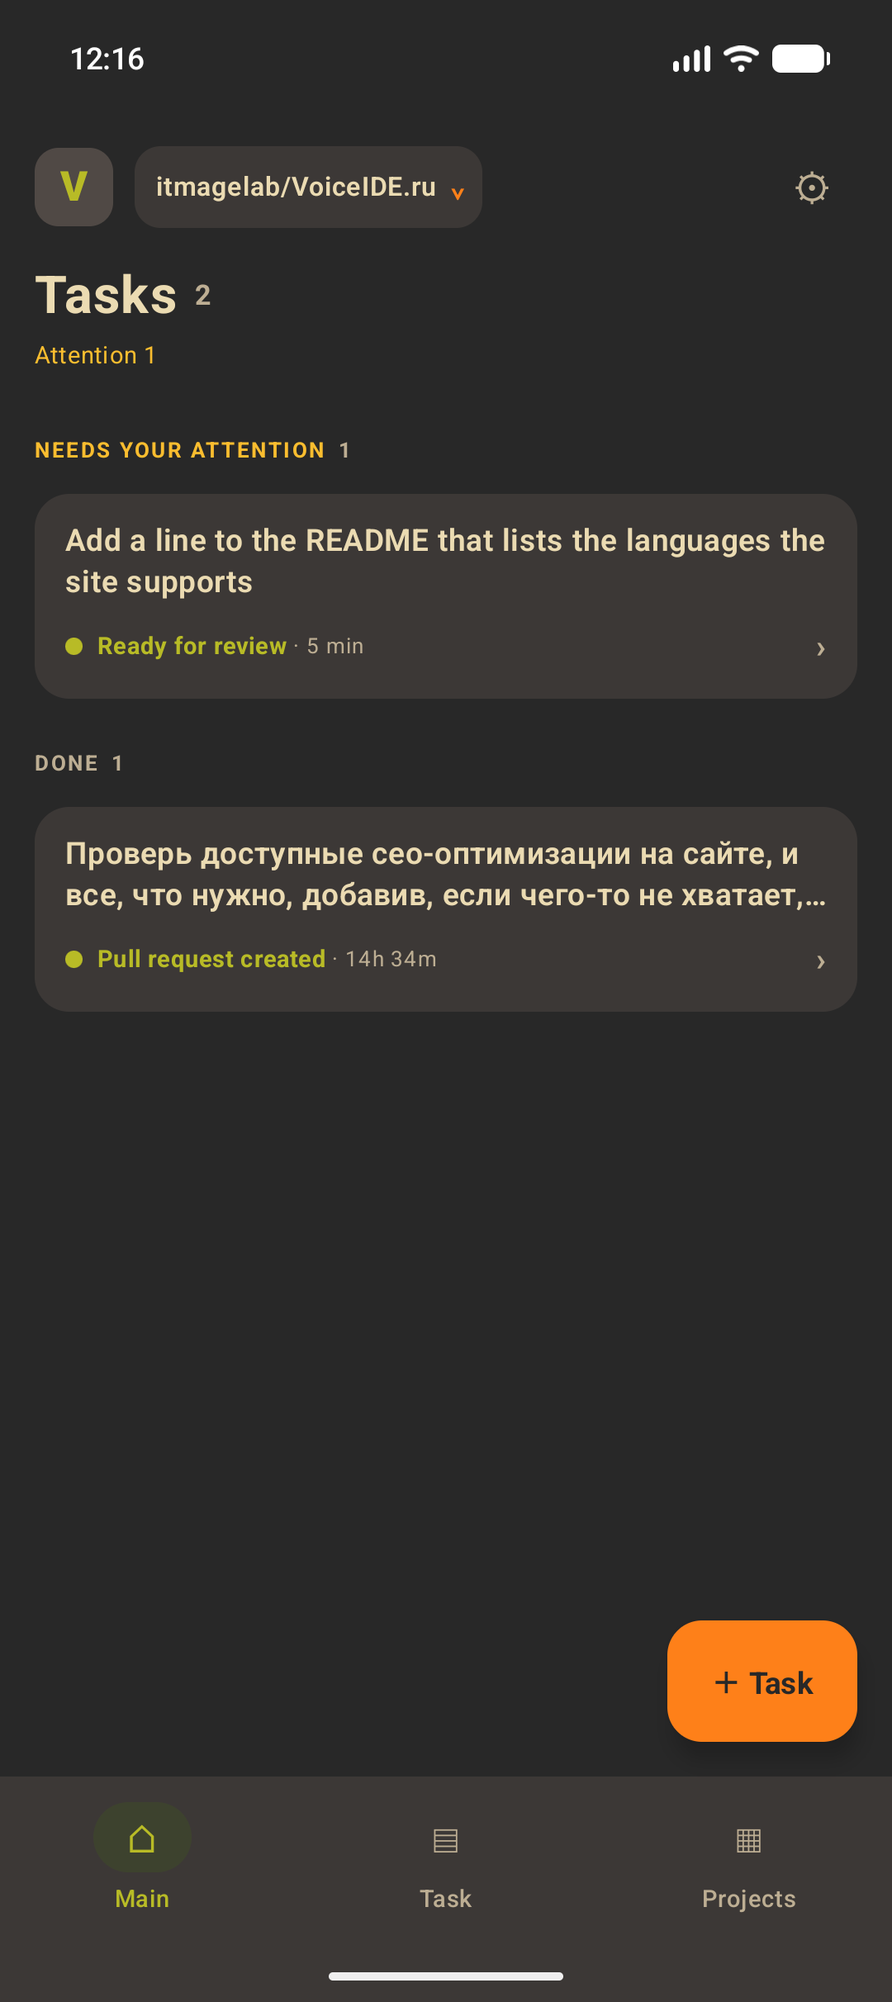
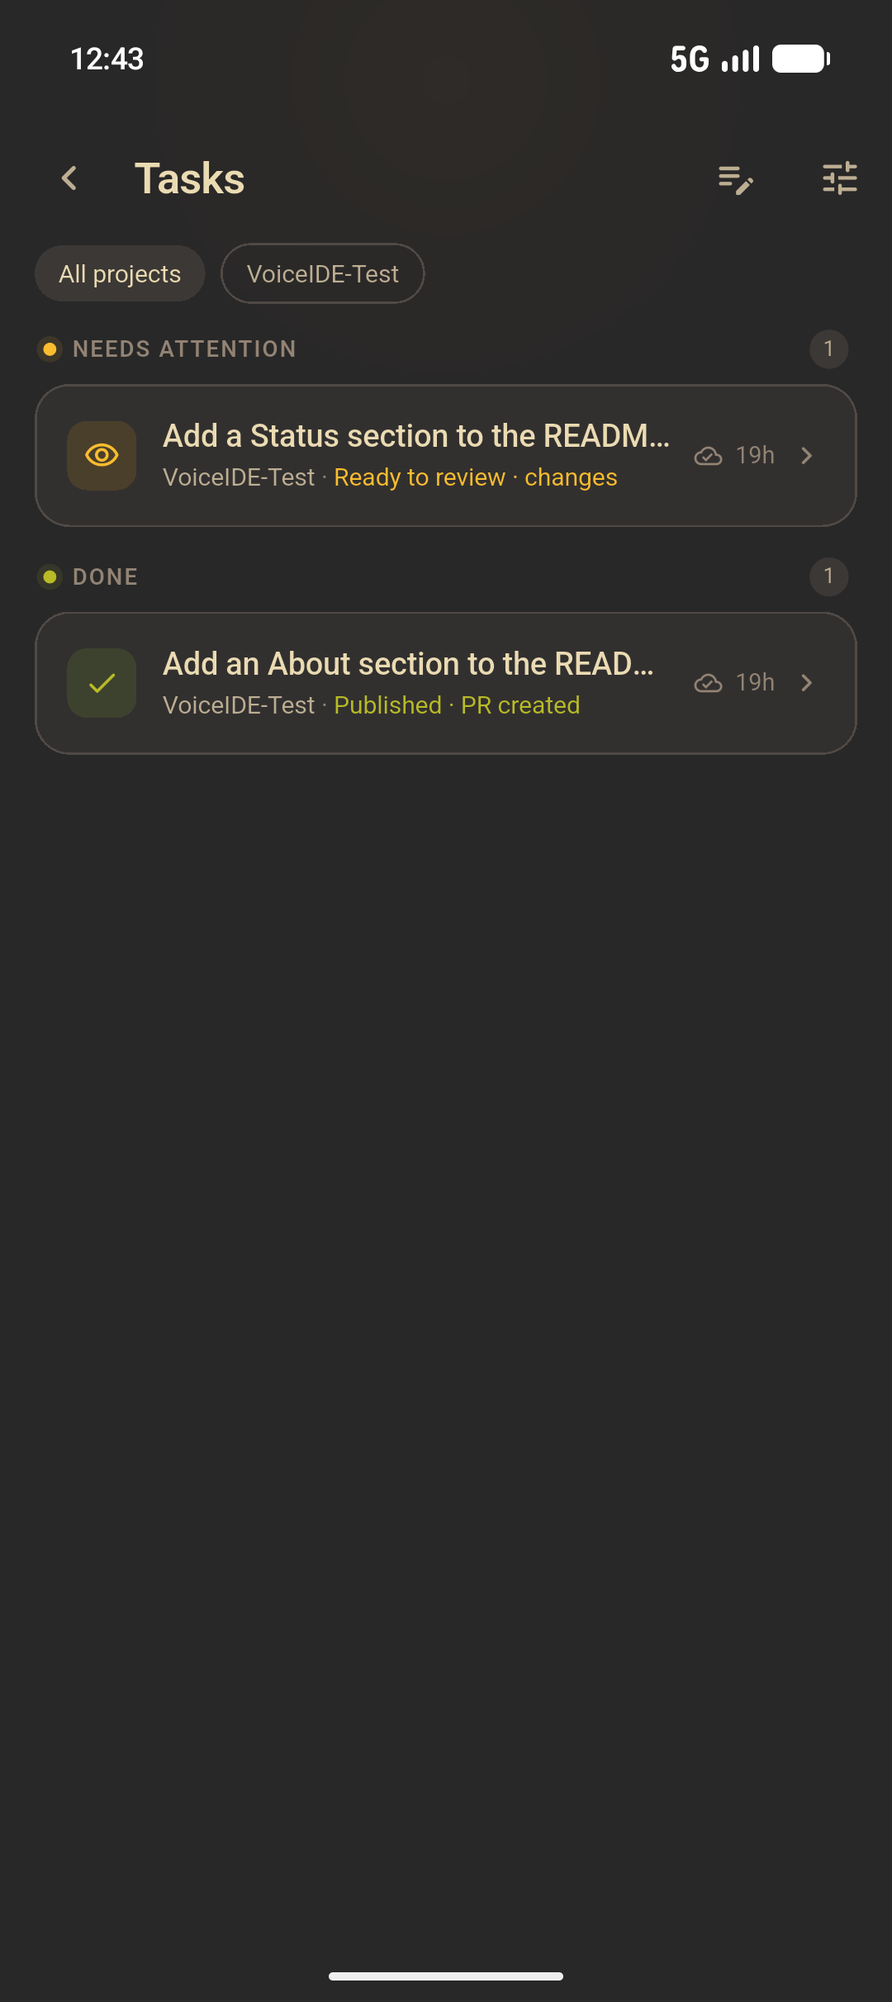
docs: обновить скриншоты сайта из основного репозитория
В VoiceIDE обновлён набор экранов: вместо диктовки и журнала агента
теперь показываются чат задачи, проверка diff и pull request. Перенёс
актуальные 01-tasks, 02-new-task, 03-task-chat, 04-review-diff и
05-pull-request, удалил устаревшие изображения.

Обновил hero, галерею, подписи RU/EN, JSON-LD, OG/Twitter, sitemap и
README; галерея переведена на flex, чтобы пять карточек ложились
ровно. Обложка og-image пересобрана генератором.

diff --git a/index.html b/index.html
@@ -26,12 +26,12 @@
 <meta property="og:image:type" content="image/png">
 <meta property="og:image:width" content="1200">
 <meta property="og:image:height" content="630">
-<meta property="og:image:alt" data-i18n-content="og.image.alt" content="VoiceIDE: список задач, новая задача голосом, проверка кода и созданный pull request на экране смартфона">
+<meta property="og:image:alt" data-i18n-content="og.image.alt" content="VoiceIDE: список задач, новая задача, чат с агентом, проверка кода и созданный pull request на экране смартфона">
 <meta name="twitter:card" content="summary_large_image">
 <meta name="twitter:title" content="VoiceIDE — разработка голосом с телефона">
 <meta name="twitter:description" content="VoiceIDE — мобильное приложение для разработки: описывайте задачи голосом, получайте готовый план, проверяйте изменения и создавайте pull request.">
 <meta name="twitter:image" content="https://voiceide.ru/assets/img/og-image.png">
-<meta name="twitter:image:alt" data-i18n-content="og.image.alt" content="VoiceIDE: список задач, новая задача голосом, проверка кода и созданный pull request на экране смартфона">
+<meta name="twitter:image:alt" data-i18n-content="og.image.alt" content="VoiceIDE: список задач, новая задача, чат с агентом, проверка кода и созданный pull request на экране смартфона">
 <script type="application/ld+json">
 {
   "@context": "https://schema.org",
@@ -86,7 +86,7 @@
       "url": "https://voiceide.ru/assets/img/og-image.png",
       "width": 1200,
       "height": 630,
-      "caption": "Экраны приложения VoiceIDE: список задач, новая задача голосом, проверка кода и pull request"
+      "caption": "Экраны приложения VoiceIDE: список задач, новая задача, чат с агентом, проверка кода и pull request"
     },
     {
       "@type": "SoftwareApplication",
@@ -103,9 +103,9 @@
       "screenshot": [
         "https://voiceide.ru/assets/img/01-tasks.png",
         "https://voiceide.ru/assets/img/02-new-task.png",
-        "https://voiceide.ru/assets/img/04-agent-working.png",
-        "https://voiceide.ru/assets/img/05-review-diff.png",
-        "https://voiceide.ru/assets/img/06-pull-request.png"
+        "https://voiceide.ru/assets/img/03-task-chat.png",
+        "https://voiceide.ru/assets/img/04-review-diff.png",
+        "https://voiceide.ru/assets/img/05-pull-request.png"
       ],
       "featureList": [
         "Диктовка задач голосом",
@@ -257,12 +257,12 @@
         </div>
         <div class="phone phone-back phone-back-left">
           <div class="phone-screen">
-            <img src="assets/img/05-review-diff.png" width="1080" height="2424" loading="lazy" decoding="async" data-i18n-alt="alt.review" alt="Проверка изменений по файлам">
+            <img src="assets/img/04-review-diff.png" width="1080" height="2424" loading="lazy" decoding="async" data-i18n-alt="alt.review" alt="Проверка изменений по файлам">
           </div>
         </div>
         <div class="phone phone-back phone-back-right">
           <div class="phone-screen">
-            <img src="assets/img/04-agent-working.png" width="1080" height="2424" loading="lazy" decoding="async" data-i18n-alt="alt.running" alt="Агент работает над задачей">
+            <img src="assets/img/03-task-chat.png" width="1080" height="2424" loading="lazy" decoding="async" data-i18n-alt="alt.chat" alt="Чат задачи с результатом работы агента">
           </div>
         </div>
       </div>
@@ -426,24 +426,20 @@
           <figcaption data-i18n="screens.1.text">Список задач: что ждёт вашего решения и что уже готово.</figcaption>
         </figure>
         <figure class="shot" data-reveal>
-          <div class="shot-frame"><img src="assets/img/02-new-task.png" width="1080" height="2424" loading="lazy" decoding="async" data-i18n-alt="alt.newTask" alt="Новая задача: модель, ветка и режим"></div>
-          <figcaption data-i18n="screens.2.text">Описание задачи, выбор модели, ветки и режима работы агента.</figcaption>
+          <div class="shot-frame"><img src="assets/img/02-new-task.png" width="1080" height="2424" loading="lazy" decoding="async" data-i18n-alt="alt.newTask" alt="Новая задача: описание, проект, модель и режим"></div>
+          <figcaption data-i18n="screens.2.text">Новая задача: описание, выбор проекта, модели и режима работы.</figcaption>
         </figure>
         <figure class="shot" data-reveal>
-          <div class="shot-frame"><img src="assets/img/03-dictation.png" width="1080" height="2424" loading="lazy" decoding="async" data-i18n-alt="alt.dictation" alt="Диктовка новой задачи"></div>
-          <figcaption data-i18n="screens.3.text">Диктовка задачи голосом с выбором языка распознавания.</figcaption>
+          <div class="shot-frame"><img src="assets/img/03-task-chat.png" width="1080" height="2424" loading="lazy" decoding="async" data-i18n-alt="alt.chat" alt="Чат задачи с результатом работы агента"></div>
+          <figcaption data-i18n="screens.3.text">Чат задачи: результат работы агента и переход к проверке изменений.</figcaption>
         </figure>
         <figure class="shot" data-reveal>
-          <div class="shot-frame"><img src="assets/img/04-agent-working.png" width="1080" height="2424" loading="lazy" decoding="async" data-i18n-alt="alt.running" alt="Агент работает над задачей"></div>
-          <figcaption data-i18n="screens.4.text">Статус выполнения задачи и журнал работы агента в реальном времени.</figcaption>
+          <div class="shot-frame"><img src="assets/img/04-review-diff.png" width="1080" height="2424" loading="lazy" decoding="async" data-i18n-alt="alt.review" alt="Проверка изменений по файлам"></div>
+          <figcaption data-i18n="screens.4.text">Просмотр изменений по файлам и принятие правок.</figcaption>
         </figure>
         <figure class="shot" data-reveal>
-          <div class="shot-frame"><img src="assets/img/05-review-diff.png" width="1080" height="2424" loading="lazy" decoding="async" data-i18n-alt="alt.review" alt="Проверка изменений по файлам"></div>
-          <figcaption data-i18n="screens.5.text">Удобный просмотр изменений по файлам и принятие решений.</figcaption>
-        </figure>
-        <figure class="shot" data-reveal>
-          <div class="shot-frame"><img src="assets/img/06-pull-request.png" width="1080" height="2424" loading="lazy" decoding="async" data-i18n-alt="alt.pr" alt="Созданный pull request"></div>
-          <figcaption data-i18n="screens.6.text">Готовый pull request и возможность добавить в него изменения.</figcaption>
+          <div class="shot-frame"><img src="assets/img/05-pull-request.png" width="1080" height="2424" loading="lazy" decoding="async" data-i18n-alt="alt.pr" alt="Созданный pull request"></div>
+          <figcaption data-i18n="screens.5.text">Готовый pull request и возможность продолжить работу в том же чате.</figcaption>
         </figure>
       </div>
     </div>

diff --git a/assets/main.js b/assets/main.js
@@ -32,9 +32,8 @@ const I18N = {
     'hero.fact2': 'полный контроль изменений',
     'hero.fact3': 'безопасное подключение',
     'alt.tasks': 'Список задач',
-    'alt.newTask': 'Новая задача: модель, ветка и режим',
-    'alt.dictation': 'Диктовка новой задачи',
-    'alt.running': 'Агент работает над задачей',
+    'alt.newTask': 'Новая задача: описание, проект, модель и режим',
+    'alt.chat': 'Чат задачи с результатом работы агента',
     'alt.review': 'Проверка изменений по файлам',
     'alt.pr': 'Созданный pull request',
     'how.kicker': 'Простой сценарий',
@@ -74,11 +73,10 @@ const I18N = {
     'screens.title': 'Как это выглядит на телефоне',
     'screens.lead': 'Интерфейс мобильного приложения на экране смартфона.',
     'screens.1.text': 'Список задач: что ждёт вашего решения и что уже готово.',
-    'screens.2.text': 'Описание задачи, выбор модели, ветки и режима работы агента.',
-    'screens.3.text': 'Диктовка задачи голосом с выбором языка распознавания.',
-    'screens.4.text': 'Статус выполнения задачи и журнал работы агента в реальном времени.',
-    'screens.5.text': 'Удобный просмотр изменений по файлам и принятие решений.',
-    'screens.6.text': 'Готовый pull request и возможность добавить в него изменения.',
+    'screens.2.text': 'Новая задача: описание, выбор проекта, модели и режима работы.',
+    'screens.3.text': 'Чат задачи: результат работы агента и переход к проверке изменений.',
+    'screens.4.text': 'Просмотр изменений по файлам и принятие правок.',
+    'screens.5.text': 'Готовый pull request и возможность продолжить работу в том же чате.',
     'install.kicker': 'Запуск',
     'install.title': 'Демо-сервер или свой',
     'install.lead': 'Начните работу за пару минут: используйте наш демонстрационный сервер или запустите собственный.',
@@ -142,7 +140,7 @@ const I18N = {
     'contacts.phone.label': 'Телефон',
     'contacts.phone.value': '+7 993 770-70-71',
     'contacts.phone.hint': 'Звонок или сообщение по этому номеру.',
-    'og.image.alt': 'VoiceIDE: список задач, новая задача голосом, проверка кода и созданный pull request на экране смартфона',
+    'og.image.alt': 'VoiceIDE: список задач, новая задача, чат с агентом, проверка кода и созданный pull request на экране смартфона',
     'cta.title': 'Опишите задачу голосом — код напишет ИИ',
     'cta.text': 'Подключите VoiceIDE к своему проекту и пишите код на ходу. План, генерация, проверка и создание PR — в едином удобном интерфейсе.',
     'cta.primary': 'Как подключить',
@@ -190,9 +188,8 @@ const I18N = {
     'hero.fact3': 'secure connection',
 
     'alt.tasks': 'Task list',
-    'alt.newTask': 'A new task: model, branch, and mode',
-    'alt.dictation': 'Dictating a new task',
-    'alt.running': 'The agent working on a task',
+    'alt.newTask': 'A new task: description, project, model, and mode',
+    'alt.chat': "The task chat with the agent's result",
     'alt.review': 'Reviewing changes file by file',
     'alt.pr': 'A pull request created',
 
@@ -235,11 +232,10 @@ const I18N = {
     'screens.title': 'What it looks like on a phone',
     'screens.lead': 'The mobile app interface on a smartphone screen.',
     'screens.1.text': 'The tasks that need attention and the finished ones.',
-    'screens.2.text': 'Describing a task and choosing the model, branch, and mode.',
-    'screens.3.text': 'Dictating the task.',
-    'screens.4.text': 'The agent working on the task.',
-    'screens.5.text': 'Reviewing the diff file by file.',
-    'screens.6.text': 'The pull request the agent opened.',
+    'screens.2.text': 'A new task: description, project, model, and mode.',
+    'screens.3.text': "The task chat with the agent's result and a way into the review.",
+    'screens.4.text': 'Reviewing the diff file by file and accepting the changes.',
+    'screens.5.text': 'The pull request the agent opened, with the chat ready to continue.',
 
     'install.kicker': 'Get started',
     'install.title': 'Demo server or your own',
@@ -306,7 +302,7 @@ const I18N = {
     'contacts.phone.label': 'Phone',
     'contacts.phone.value': '+7 993 770-70-71',
     'contacts.phone.hint': 'Call or send a message to this number.',
-    'og.image.alt': 'VoiceIDE: a task list, a new task by voice, checking the code, and a created pull request on a phone screen',
+    'og.image.alt': 'VoiceIDE: a task list, a new task, a chat with the agent, code review, and a created pull request on a phone screen',
     'cta.title': 'Describe the task by voice — the AI writes the code',
     'cta.text': 'Connect VoiceIDE to your project and write code on the go. Plan, generate, review, and create a PR in one convenient interface.',
     'cta.primary': 'Get started',

diff --git a/assets/style.css b/assets/style.css
@@ -674,12 +674,17 @@ a.contact-value:hover { color: var(--orange); border-bottom-color: transparent; 
 /* ---------- gallery ---------- */
 
 .gallery {
-  display: grid;
-  grid-template-columns: repeat(3, 1fr);
+  display: flex;
+  flex-wrap: wrap;
+  justify-content: center;
   gap: 26px 22px;
 }
 
-.shot { margin: 0; }
+.shot {
+  flex: 0 1 calc((100% - 44px) / 3);
+  max-width: calc((100% - 44px) / 3);
+  margin: 0;
+}
 
 .shot-frame {
   background: var(--d-bg0);
@@ -959,7 +964,10 @@ html[lang="en"] [data-lang-block="ru"] { display: none; }
   .phone-back { display: none; }
   .how-grid { grid-template-columns: 1fr; }
   .terminal-wrap { position: static; }
-  .gallery { grid-template-columns: repeat(2, 1fr); }
+  .shot {
+    flex-basis: calc((100% - 22px) / 2);
+    max-width: calc((100% - 22px) / 2);
+  }
   .footer-grid { grid-template-columns: 1fr 1fr; }
   .footer-brand { grid-column: 1 / -1; }
 }
@@ -971,7 +979,11 @@ html[lang="en"] [data-lang-block="ru"] { display: none; }
   .header-actions .btn { display: none; }
   .cta-box { padding: 40px 22px; }
   .hero-facts { gap: 6px; }
-  .gallery { grid-template-columns: repeat(auto-fill, minmax(150px, 1fr)); gap: 20px 14px; }
+  .gallery { gap: 20px 14px; }
+  .shot {
+    flex-basis: calc((100% - 14px) / 2);
+    max-width: calc((100% - 14px) / 2);
+  }
   .gh-ribbon { top: 20px; right: -40px; width: 170px; padding: 6px 0; font-size: .74rem; }
   .to-top { right: 14px; bottom: 14px; width: 40px; height: 40px; }
   .made-by { justify-content: flex-start; }

diff --git a/tools/make-og-image.swift b/tools/make-og-image.swift
@@ -5,7 +5,7 @@
 //
 // Макет повторяет первый экран сайта: слева текст, справа три телефона
 // со скриншотами приложения. Картинки берутся из assets/img — это копии
-// docs/release-assets/ из основного репозитория VoiceIDE.
+// contrib/release-assets/ из основного репозитория VoiceIDE.
 
 import AppKit
 import CoreGraphics
@@ -248,7 +248,7 @@ let imageDir = CommandLine.arguments.count > 1 ? CommandLine.arguments[1] : "ass
 guard
     let tasksShot = loadImage("\(imageDir)/01-tasks.png"),
     let newTaskShot = loadImage("\(imageDir)/02-new-task.png"),
-    let reviewShot = loadImage("\(imageDir)/05-review-diff.png")
+    let reviewShot = loadImage("\(imageDir)/04-review-diff.png")
 else {
     fatalError("cannot load screenshots from \(imageDir)")
 }

diff --git a/README.md b/README.md
@@ -21,12 +21,12 @@ VoiceIDE.ru/
     └── make-og-image.swift # генератор превью og-image.png
 ```
 
-Скриншоты скопированы из `docs/release-assets/`, чтобы сайт собирался из одной
-папки: workflow публикует только `VoiceIDE.ru/`. Имена совпадают с исходными:
-`01-tasks`, `02-new-task`, `03-dictation`, `04-agent-working`, `05-review-diff`,
-`06-pull-request`. После обновления скриншотов в основном репозитории их нужно
-перекопировать сюда и поправить ссылки в `index.html`, `assets/main.js`
-(подписи `alt.*` и `screens.*.text`) и `sitemap.xml`.
+Скриншоты скопированы из `contrib/release-assets/` основного репозитория, чтобы
+сайт собирался из одной папки: workflow публикует только `VoiceIDE.ru/`. Имена
+совпадают с исходными: `01-tasks`, `02-new-task`, `03-task-chat`,
+`04-review-diff`, `05-pull-request`. После обновления скриншотов в основном
+репозитории их нужно перекопировать сюда и поправить ссылки в `index.html`,
+`assets/main.js` (подписи `alt.*` и `screens.*.text`) и `sitemap.xml`.
 
 ## Превью для соцсетей
 
